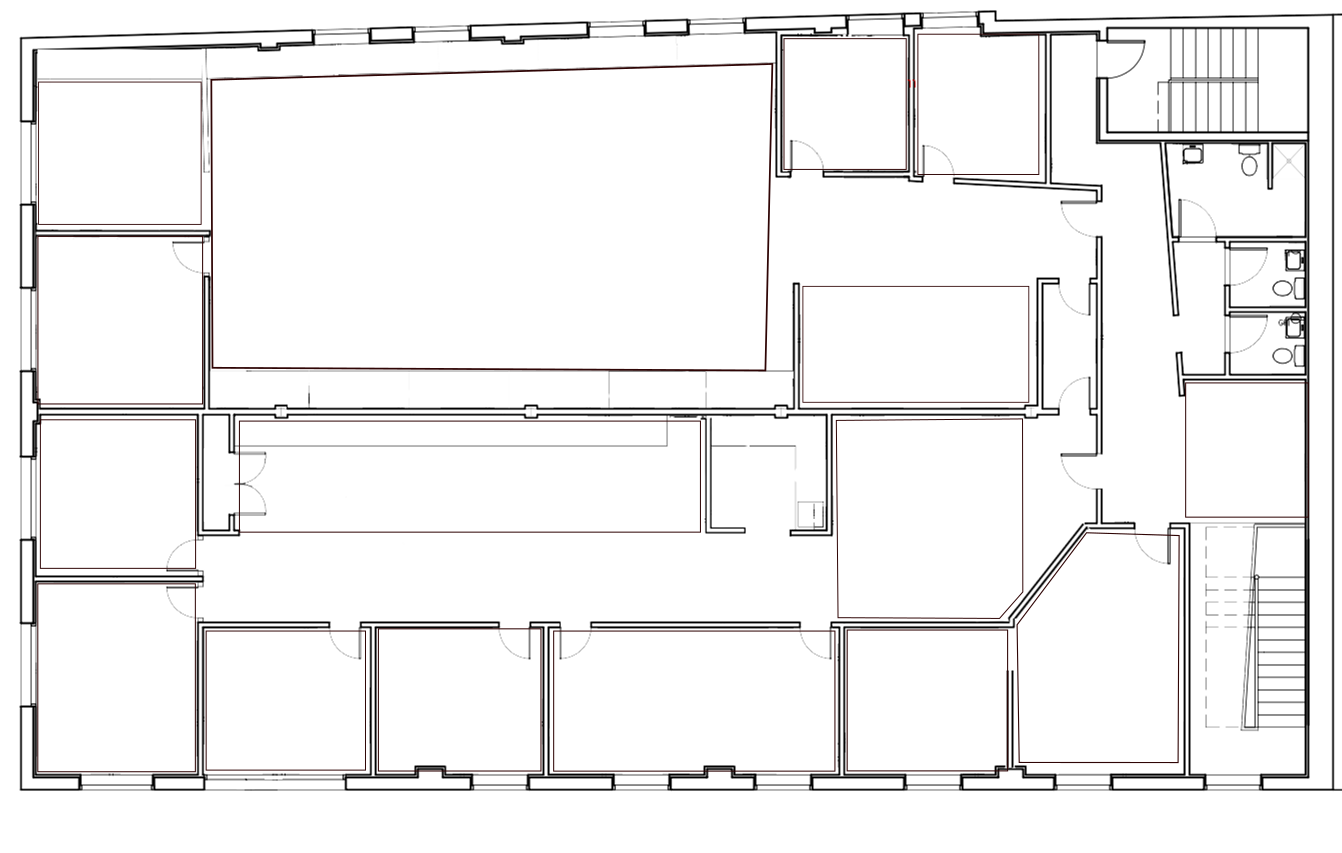
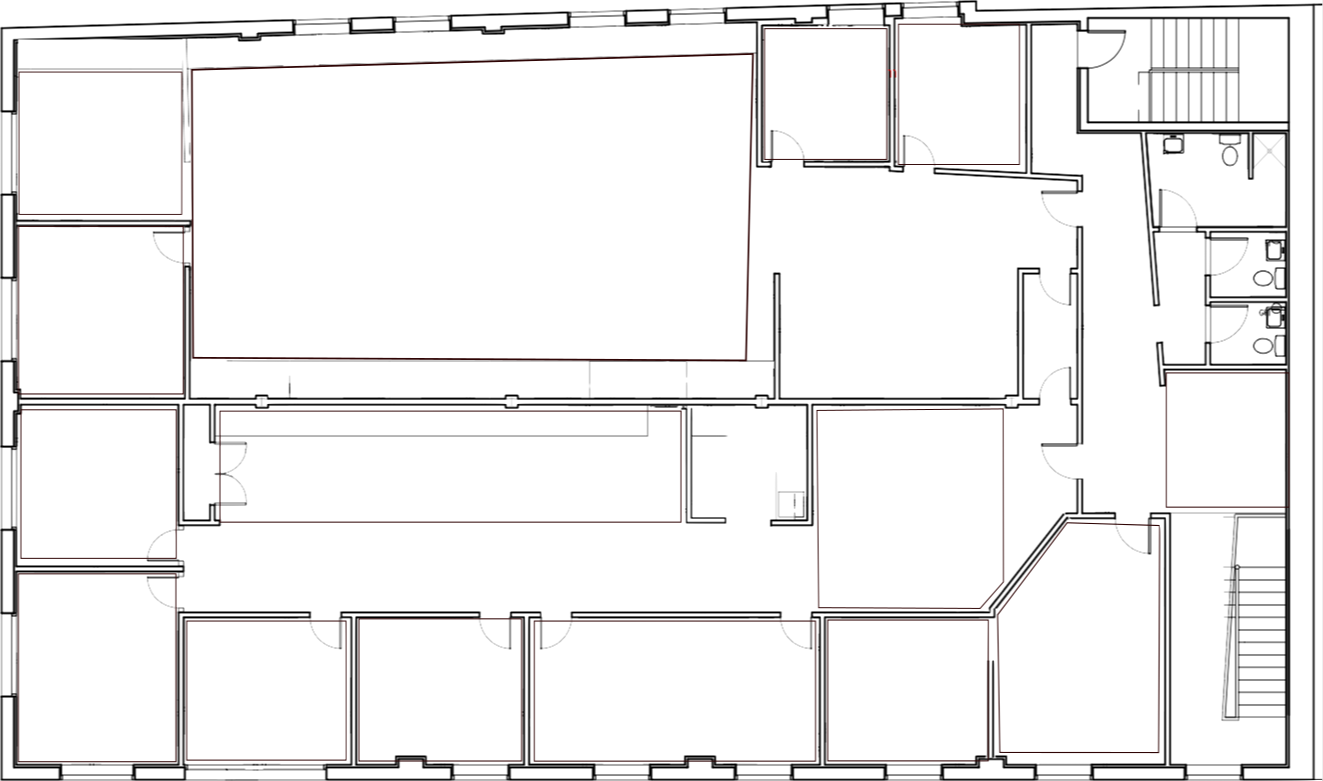
added grid background and made HQFloor2 transparent

Changed region(s): [[0.0, 0.0, 1.0, 1.0]]

diff --git a/booty/javascript.js b/booty/javascript.js
@@ -1,5 +1,5 @@
 $(document).ready(function () {
-
+    document.body.style.backgroundImage = "url('https://78.media.tumblr.com/b96c494a053a6f20a7cb7af1ca9b6f98/tumblr_inline_nn85tpbQkq1rewzq7_1280.png')";
 	//prepares the sidebar collapse buttons
     $('#sidebarCollapse').on('click', function () {
         $('#sidebar').toggleClass('active');

diff --git a/booty/index.html b/booty/index.html
@@ -250,7 +250,7 @@
 
     <div id="HQFloor2">
 
-    	<image xlink:href="HQ-2nd-Floor.png" src="HQ-2nd-Floor.png" width="1040px" height="630px"/>
+    	<image xlink:href="HQ-2nd-Floor.png" src="2ndfloor.png" width="1040px" height="630px"/>
 
     </div>
 
